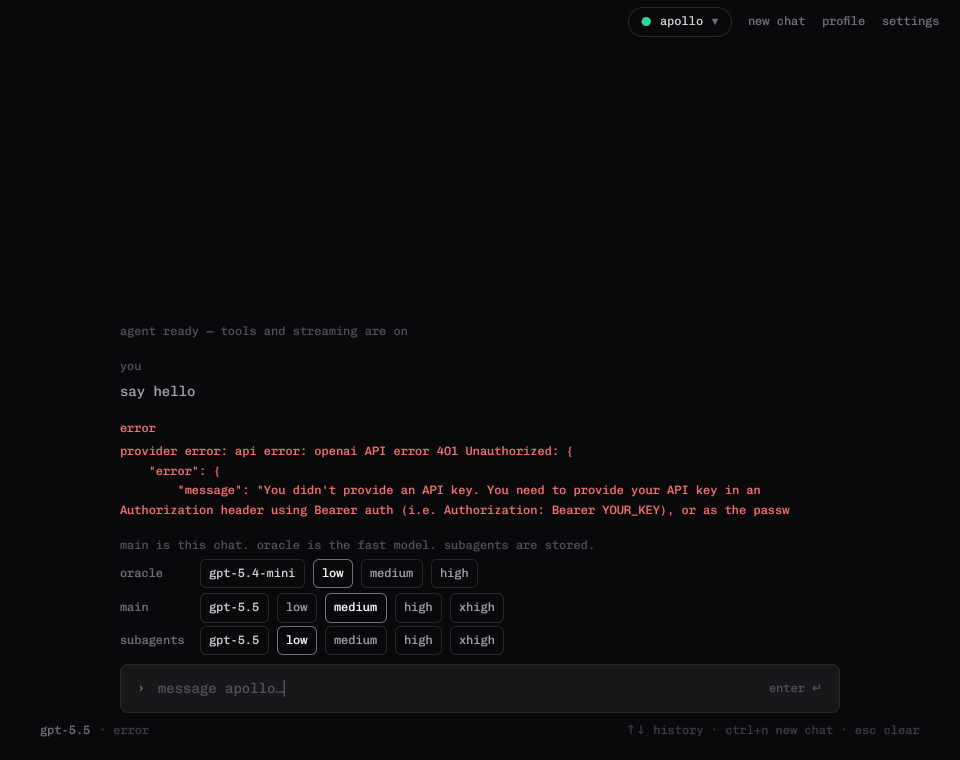
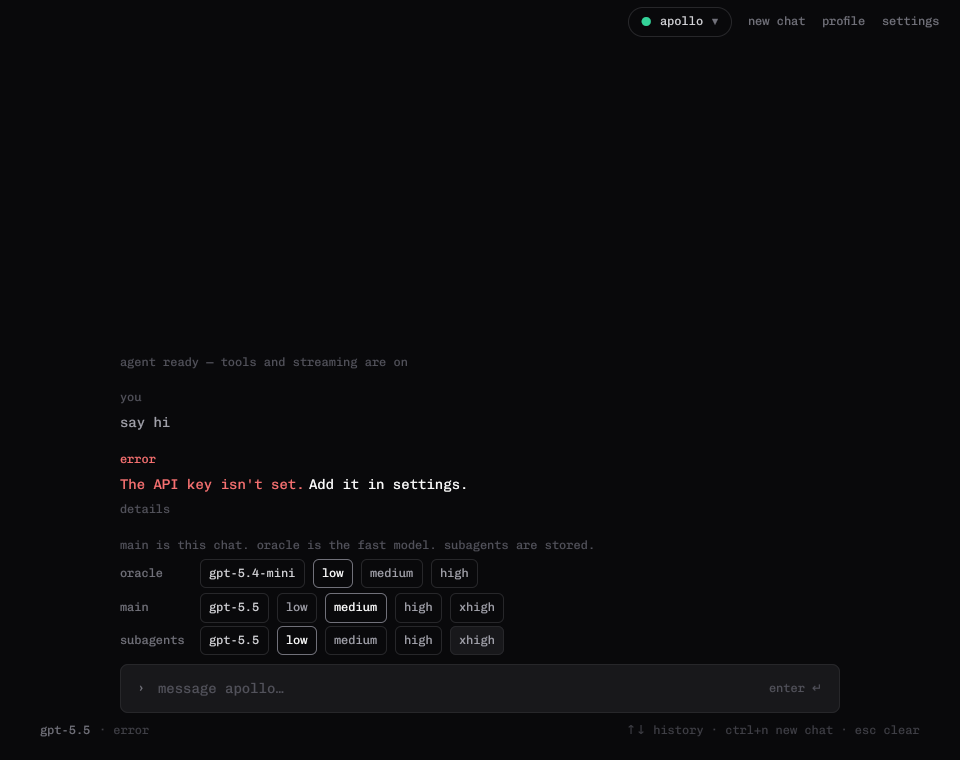
feat(ui): lead with a sentence when a turn fails
A missing key says to add it in settings. The provider body stays behind details instead of landing in the thread.

Changed region(s): [[0.125, 0.5145, 0.8125, 0.6961], [0.25, 0.4237, 0.4062, 0.4842], [0.125, 0.4237, 0.2188, 0.4842]]

diff --git a/ui/src/shell.rs b/ui/src/shell.rs
@@ -890,14 +890,92 @@ impl ApolloView {
             .into_any_element()
     }
 
-    fn transcript(&self) -> impl IntoElement {
+    fn transcript(&self, cx: &mut Context<Self>) -> AnyElement {
         let cursor = blink_cursor(self.cursor_start);
-        div().flex().flex_col().gap_4().children(
-            self.entries
-                .iter()
-                .enumerate()
-                .map(|(i, entry)| entry.view(cursor, i)),
-        )
+        div()
+            .flex()
+            .flex_col()
+            .gap_4()
+            .children(
+                self.entries
+                    .iter()
+                    .enumerate()
+                    .map(|(i, entry)| match entry {
+                        crate::Entry::Error(text) => self.error_row(i, text, cx),
+                        other => other.view(cursor, i).into_any_element(),
+                    }),
+            )
+            .into_any_element()
+    }
+
+    /// The sentence first. The provider body is opt-in, and it is not red.
+    fn error_row(&self, index: usize, raw: &str, cx: &mut Context<Self>) -> AnyElement {
+        let open = self.error_detail == Some(index);
+        let missing_key = matches!(crate::classify_fault(raw), crate::Fault::MissingKey);
+        let line = crate::fault_line(raw);
+        let raw_owned = raw.to_string();
+        div()
+            .flex()
+            .flex_col()
+            .gap_1()
+            .child(div().text_xs().text_color(rgb(DANGER)).child("error"))
+            .child(
+                div()
+                    .flex()
+                    .flex_row()
+                    .flex_wrap()
+                    .gap_1()
+                    .child(
+                        div()
+                            .text_sm()
+                            .text_color(rgb(DANGER))
+                            .child(if missing_key {
+                                "The API key isn't set."
+                            } else {
+                                line
+                            }),
+                    )
+                    .when(missing_key, |row| {
+                        row.child(
+                            div()
+                                .id(("error-settings", index))
+                                .text_sm()
+                                .text_color(rgb(ACCENT))
+                                .cursor_pointer()
+                                .hover(|s| s.text_color(rgb(TEXT)))
+                                .child("Add it in settings.")
+                                .on_click(cx.listener(|view, _: &ClickEvent, _, cx| {
+                                    view.show(Panel::Settings, cx)
+                                })),
+                        )
+                    }),
+            )
+            .child(
+                div()
+                    .id(("error-detail", index))
+                    .text_xs()
+                    .text_color(rgb(GHOST))
+                    .cursor_pointer()
+                    .hover(|s| s.text_color(rgb(TEXT)))
+                    .child(if open { "hide details" } else { "details" })
+                    .on_click(cx.listener(move |view, _: &ClickEvent, _, cx| {
+                        view.error_detail = if view.error_detail == Some(index) {
+                            None
+                        } else {
+                            Some(index)
+                        };
+                        cx.notify();
+                    })),
+            )
+            .when(open, |row| {
+                row.child(
+                    div()
+                        .text_xs()
+                        .text_color(rgb(MUTED))
+                        .child(SharedString::from(raw_owned)),
+                )
+            })
+            .into_any_element()
     }
 
     /// True once someone has spoken. A status line alone is still the empty home.
@@ -925,7 +1003,7 @@ impl ApolloView {
                 .h_full()
                 .flex()
                 .flex_col()
-                .child(self.transcript_pane())
+                .child(self.transcript_pane(cx))
                 .child(div().w_full().pt_4().child(self.chat_dock(cx)))
                 .into_any_element()
         } else {
@@ -1029,7 +1107,7 @@ impl ApolloView {
             .into_any_element()
     }
 
-    fn transcript_pane(&self) -> AnyElement {
+    fn transcript_pane(&self, cx: &mut Context<Self>) -> AnyElement {
         div()
             .flex_1()
             .w_full()
@@ -1038,7 +1116,7 @@ impl ApolloView {
             .flex()
             .flex_col()
             .justify_end()
-            .child(self.transcript())
+            .child(self.transcript(cx))
             .into_any_element()
     }
 
@@ -2423,7 +2501,7 @@ impl ApolloView {
                 .flex()
                 .flex_col()
                 .px_8()
-                .child(self.transcript_pane())
+                .child(self.transcript_pane(cx))
                 .child(
                     div()
                         .w_full()

diff --git a/ui/src/main.rs b/ui/src/main.rs
@@ -176,12 +176,7 @@ impl Entry {
                 .flex_col()
                 .gap_1()
                 .child(div().text_xs().text_color(rgb(ERR)).child("error"))
-                .child(
-                    div()
-                        .text_xs()
-                        .text_color(rgb(ERR))
-                        .child(SharedString::from(text.clone())),
-                ),
+                .child(div().text_sm().text_color(rgb(ERR)).child(fault_line(text))),
         };
         row.with_animation(
             ("entry", index),
@@ -230,6 +225,8 @@ struct ApolloView {
     /// Agent session. A new chat mints a new id so the next turn does not
     /// continue the previous conversation.
     chat_id: String,
+    /// Which error row is showing its raw provider text.
+    error_detail: Option<usize>,
 }
 
 impl ApolloView {
@@ -295,6 +292,7 @@ impl ApolloView {
             picker: None,
             dial: None,
             chat_id: format!("desktop-{}", now_millis()),
+            error_detail: None,
         };
         view.supervise_agent(config_dir, cx);
         view
@@ -854,5 +852,75 @@ impl Render for Root {
             .size_full()
             .font_family(theme::FONT)
             .child(self.0.clone())
+    }
+}
+
+/// What a person should do about a provider or agent failure.
+/// The raw body stays behind a disclosure; this is the line they see first.
+pub(crate) enum Fault {
+    /// No credential. The sentence points at settings.
+    MissingKey,
+    /// One short, static sentence.
+    Sentence(&'static str),
+}
+
+pub(crate) fn classify_fault(err: &str) -> Fault {
+    let lower = err.to_ascii_lowercase();
+    let missing_key = lower.contains("api key")
+        || lower.contains("api_key")
+        || lower.contains("didn't provide")
+        || lower.contains("did not provide")
+        || lower.contains("no key")
+        || lower.contains("missing key");
+    if missing_key {
+        return Fault::MissingKey;
+    }
+    if lower.contains("401")
+        || lower.contains("403")
+        || lower.contains("unauthorized")
+        || lower.contains("forbidden")
+    {
+        return Fault::Sentence("The account refused that request. Check the sign-in in settings.");
+    }
+    if lower.contains("429") || lower.contains("rate limit") {
+        return Fault::Sentence("The provider is limiting requests. Wait a moment and try again.");
+    }
+    if lower.contains("timed out") || lower.contains("timeout") {
+        return Fault::Sentence("That took too long. Try again.");
+    }
+    if lower.contains("connection") || lower.contains("network") || lower.contains("dns") {
+        return Fault::Sentence("Couldn't reach the provider. Check the connection and try again.");
+    }
+    Fault::Sentence("That didn't work. Try again.")
+}
+
+pub(crate) fn fault_line(err: &str) -> &'static str {
+    match classify_fault(err) {
+        Fault::MissingKey => "The API key isn't set. Add it in settings.",
+        Fault::Sentence(line) => line,
+    }
+}
+
+#[cfg(test)]
+mod fault_tests {
+    use super::*;
+
+    #[test]
+    fn missing_key_is_one_sentence_not_the_body() {
+        let raw = r#"provider error: api error: openai API error 401 Unauthorized: { "error": { "message": "You didn't provide an API key." } }"#;
+        assert_eq!(
+            fault_line(raw),
+            "The API key isn't set. Add it in settings."
+        );
+        assert!(!fault_line(raw).contains('{'));
+    }
+
+    #[test]
+    fn other_failures_stay_one_sentence() {
+        assert_eq!(
+            fault_line("connection reset by peer"),
+            "Couldn't reach the provider. Check the connection and try again."
+        );
+        assert_eq!(fault_line("something odd"), "That didn't work. Try again.");
     }
 }
